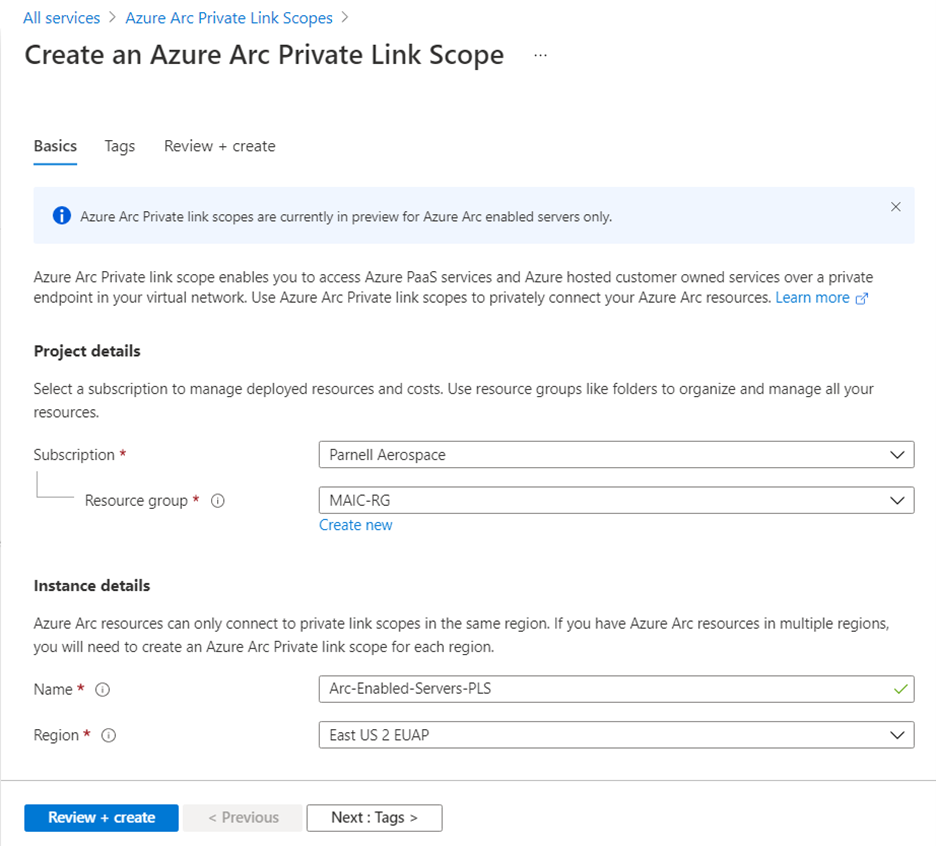
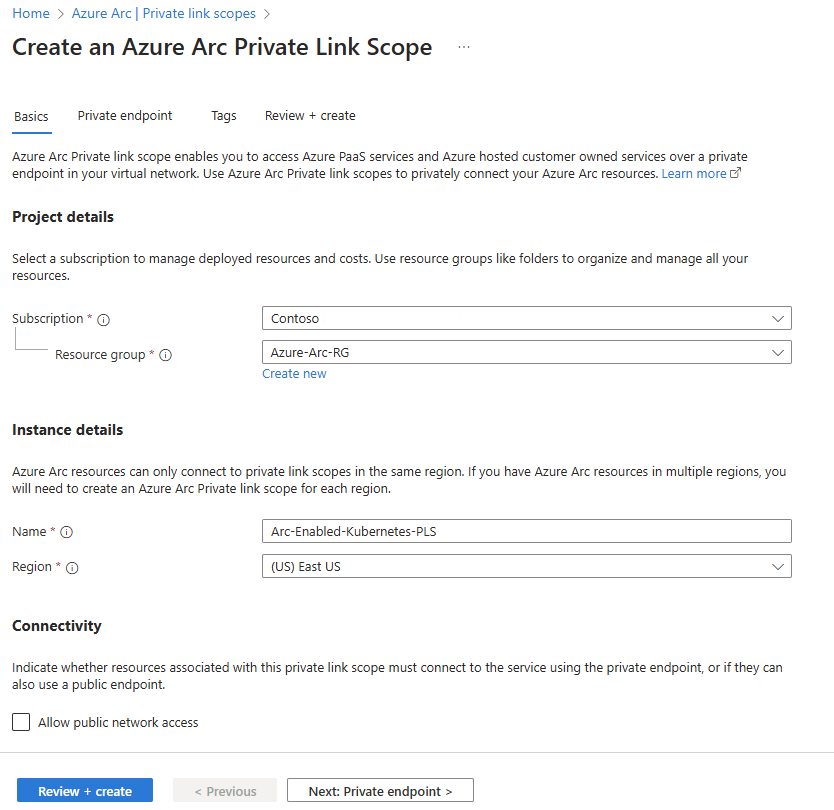
update steps for current functionality

diff --git a/articles/azure-arc/kubernetes/private-link.md b/articles/azure-arc/kubernetes/private-link.md
@@ -1,6 +1,6 @@
 ---
 title: Use private connectivity for Azure Arc-enabled Kubernetes clusters with private link (preview)
-ms.date: 09/21/2022
+ms.date: 10/08/2024
 ms.topic: how-to
 description: With Azure Arc, you can use a Private Link Scope model to allow multiple Kubernetes clusters to use a single private endpoint.
 ms.custom: references_regions
@@ -30,7 +30,7 @@ For more information, see [Key benefits of Azure Private Link](/azure/private-li
 
 ## How it works
 
-Azure Arc Private Link Scope connects private endpoints (and the virtual networks they're contained in) to an Azure resource, in this case Azure Arc-enabled Kubernetes clusters. When you enable any one of the Arc-enabled Kubernetes cluster supported extensions, such as Azure Monitor, then connection to other Azure resources may be required for these scenarios. For example, in the case of Azure Monitor, the logs collected from the cluster are sent to Log Analytics workspace.
+Azure Arc Private Link Scope connects private endpoints (and the virtual networks they're contained in) to an Azure resource, in this case Azure Arc-enabled Kubernetes clusters. When you enable an Arc-enabled Kubernetes [cluster extension](extensions-release.md), then connection to other Azure resources may be required for these scenarios. For example, in the case of Azure Monitor, the logs collected from the cluster are sent to Log Analytics workspace.
 
 Connectivity to the other Azure resources from an Arc-enabled Kubernetes cluster listed earlier requires configuring Private Link for each service. For an example, see [Private Link for Azure Monitor](/azure/azure-monitor/logs/private-link-security).
 
@@ -38,37 +38,38 @@ Connectivity to the other Azure resources from an Arc-enabled Kubernetes cluster
 
 Consider these current limitations when planning your Private Link setup.
 
-* You can associate at most one Azure Arc Private Link Scope with a virtual network.
+* You can associate only one Azure Arc Private Link Scope with a virtual network.
 * An Azure Arc-enabled Kubernetes cluster can only connect to one Azure Arc Private Link Scope.
-* All on-premises Kubernetes clusters need to use the same private endpoint by resolving the correct private endpoint information (FQDN record name and private IP address) using the same DNS forwarder. For more information, see [Azure Private Endpoint DNS configuration](/azure/private-link/private-endpoint-dns). The Azure Arc-enabled Kubernetes cluster, Azure Arc Private Link Scope, and virtual network must be in the same Azure region. The Private Endpoint and the virtual network must also be in the same Azure region, but this region can be different from that of your Azure Arc Private Link Scope and Arc-enabled Kubernetes cluster.
+* All on-premises Kubernetes clusters need to use the same private endpoint by resolving the correct private endpoint information (FQDN record name and private IP address) using the same DNS forwarder. For more information, see [Azure Private Endpoint private DNS zone values](/azure/private-link/private-endpoint-dns). The Azure Arc-enabled Kubernetes cluster, Azure Arc Private Link Scope, and virtual network must be in the same Azure region. The Private Endpoint and the virtual network must also be in the same Azure region, but this region can be different from that of your Azure Arc Private Link Scope and Arc-enabled Kubernetes cluster.
 * Traffic to Microsoft Entra ID, Azure Resource Manager and Microsoft Container Registry service tags must be allowed through your on-premises network firewall during the preview.
-* Other Azure services that you will use, for example Azure Monitor, requires their own private endpoints in your virtual network.
+* Other Azure services that you use, such as Azure Monitor, may require their own private endpoints in your virtual network.
 
     > [!NOTE]
-    > The [Cluster Connect](conceptual-cluster-connect.md) (and hence the [Custom location](custom-locations.md)) feature is not supported on Azure Arc-enabled Kubernetes clusters with private connectivity enabled. This is planned and will be added later. Network connectivity using private links for Azure Arc services like Azure Arc-enabled data services and Azure Arc-enabled App services that use these features are also not supported yet. Refer to the section below for a list of [cluster extensions or Azure Arc services that support network connectivity through private links](#cluster-extensions-that-support-network-connectivity-through-private-links).
+    > The [Cluster Connect](conceptual-cluster-connect.md) (and hence the [Custom location](custom-locations.md)) feature is currently not supported on Azure Arc-enabled Kubernetes clusters with private connectivity enabled. Network connectivity using private links for Azure Arc services such as Azure Arc-enabled data services, and Azure Arc-enabled App services that use these features, are also currently not supported.
 
 ## Cluster extensions that support network connectivity through private links
 
-On Azure Arc-enabled Kubernetes clusters configured with private links, the following extensions support end-to-end connectivity through private links. Refer to the guidance linked to each cluster extension for additional configuration steps and details on support for private links.
+On Azure Arc-enabled Kubernetes clusters configured with private links, these extensions support end-to-end connectivity through private links:
 
-* [Azure GitOps](conceptual-gitops-flux2.md)
+* [Azure GitOps](conceptual-gitops-flux2.md#gitops-with-private-link)
 * [Azure Monitor](/azure/azure-monitor/logs/private-link-security)
 
 ## Planning your Private Link setup
 
-To connect your Kubernetes cluster to Azure Arc over a private link, you need to configure your network to accomplish the following:
+To connect your Kubernetes cluster to Azure Arc over a private link, configure your network as follows:
 
 1. Establish a connection between your on-premises network and an Azure virtual network using a [site-to-site VPN](/azure/vpn-gateway/tutorial-site-to-site-portal) or [ExpressRoute](/azure/expressroute/expressroute-howto-linkvnet-arm) circuit.
-1. Deploy an Azure Arc Private Link Scope, which controls which Kubernetes clusters can communicate with Azure Arc over private endpoints and associate it with your Azure virtual network using a private endpoint.
+1. Deploy an Azure Arc Private Link Scope, which controls which Kubernetes clusters can communicate with Azure Arc over private endpoints, and associate it with your Azure virtual network using a private endpoint.
 1. Update the DNS configuration on your local network to resolve the private endpoint addresses.
 1. Configure your local firewall to allow access to Microsoft Entra ID, Azure Resource Manager and Microsoft Container Registry.
 1. Associate the Azure Arc-enabled Kubernetes clusters with the Azure Arc Private Link Scope.
 1. Optionally, deploy private endpoints for other Azure services your Azure Arc-enabled Kubernetes cluster is managed by, such as Azure Monitor.
-The rest of this document assumes you have already set up your ExpressRoute circuit or site-to-site VPN connection.
+
+The rest of this article assumes you have already set up your ExpressRoute circuit or site-to-site VPN connection.
 
 ## Network configuration
 
-Azure Arc-enabled Kubernetes integrates with several Azure services to bring cloud management and governance to your hybrid Kubernetes clusters. Most of these services already offer private endpoints, but you need to configure your firewall and routing rules to allow access to Microsoft Entra ID and Azure Resource Manager over the internet until these services offer private endpoints. You also need to allow access to Microsoft Container Registry (and AzureFrontDoor.FirstParty as a precursor for Microsoft Container Registry) to pull images & Helm charts to enable services like Azure Monitor, as well as for initial setup of Azure Arc agents on the Kubernetes clusters.
+Azure Arc-enabled Kubernetes integrates with several Azure services to bring cloud management and governance to your hybrid Kubernetes clusters. Most of these services already offer private endpoints. However, you need to configure your firewall and routing rules to allow access to Microsoft Entra ID and Azure Resource Manager over the internet until those services offer private endpoints. You must also allow access to Microsoft Container Registry (and AzureFrontDoor.FirstParty as a precursor for Microsoft Container Registry) to pull images & Helm charts to enable services like Azure Monitor, as well as for initial setup of Azure Arc agents on Kubernetes clusters.
 
 There are two ways you can achieve this:
 
@@ -86,18 +87,18 @@ There are two ways you can achieve this:
     | Priority                | 150 (must be lower than any rules that block internet access) | 151 (must be lower than any rules that block internet access) | 152 (must be lower than any rules that block internet access) | 153 (must be lower than any rules that block internet access) |
     | Name                    | AllowAADOutboundAccess                                        | AllowAzOutboundAccess                                         | AllowAzureFrontDoorFirstPartyAccess                           | AllowMCROutboundAccess
 
-* Configure the firewall on your local network to allow outbound TCP 443 (HTTPS) access to Microsoft Entra ID, Azure Resource Manager, and Microsoft Container Registry, and inbound & outbound access to AzureFrontDoor.FirstParty using the downloadable service tag files. The JSON file contains all the public IP address ranges used by Microsoft Entra ID, Azure Resource Manager, AzureFrontDoor.FirstParty, and Microsoft Container Registry and is updated monthly to reflect any changes. Microsoft Entra service tag is AzureActiveDirectory, Azure Resource Manager's service tag is AzureResourceManager, Microsoft Container Registry's service tag is MicrosoftContainerRegistry, and Azure Front Door's service tag is AzureFrontDoor.FirstParty. Consult with your network administrator and network firewall vendor to learn how to configure your firewall rules.
+* Alternately, configure the firewall on your local network to allow outbound TCP 443 (HTTPS) access to Microsoft Entra ID, Azure Resource Manager, and Microsoft Container Registry, and inbound and outbound access to AzureFrontDoor.FirstParty using downloadable service tag files. The JSON file contains all the public IP address ranges used by Microsoft Entra ID, Azure Resource Manager, AzureFrontDoor.FirstParty, and Microsoft Container Registry and is updated monthly to reflect any changes. The Microsoft Entra service tag is AzureActiveDirectory, Azure Resource Manager's service tag is AzureResourceManager, Microsoft Container Registry's service tag is MicrosoftContainerRegistry, and Azure Front Door's service tag is AzureFrontDoor.FirstParty. Consult your network administrator and network firewall vendor to learn how to configure your firewall rules.
 
 ## Create an Azure Arc Private Link Scope
 
 1. Sign in to the [Azure portal](https://portal.azure.com).
-1. Go to **Create a resource** in the Azure portal, then search for Azure Arc Private Link Scope. Or you can go directly to the [Azure Arc Private Link Scope page](https://portal.azure.com/#blade/HubsExtension/BrowseResource/resourceType/Microsoft.HybridCompute%2FprivateLinkScopes) in the portal.
+1. Search for Azure Arc Private Link Scope. Or you can go directly to the [**Azure Arc Private Link Scopes** page](https://portal.azure.com/#blade/HubsExtension/BrowseResource/resourceType/Microsoft.HybridCompute%2FprivateLinkScopes) in the Azure portal.
 
 1. Select **Create**.
 1. Select a subscription and resource group. During the preview, your virtual network and Azure Arc-enabled Kubernetes clusters must be in the same subscription as the Azure Arc Private Link Scope.
 1. Give the Azure Arc Private Link Scope a name.
-1. You can optionally require every Arc-enabled Kubernetes cluster associated with this Azure Arc Private Link Scope to send data to the service through the private endpoint. If you select **Enable public network access**, Kubernetes clusters associated with this Azure Arc Private Link Scope can communicate with the service over both private or public networks. You can change this setting after creating the scope as needed.
-1. Select **Review + Create**.
+1. To require every Arc-enabled Kubernetes cluster associated with this Azure Arc Private Link Scope to send data to the service through the private endpoint, select **Allow public network access**. If you do so, Kubernetes clusters associated with this Azure Arc Private Link Scope can communicate with the service over both private or public networks. You can change this setting after creating the scope as needed.
+1. Select **Review + create**.
 
    :::image type="content" source="media/private-link/create-private-link-scope.png" alt-text="Screenshot of the Azure Arc Private Link Scope creation screen in the Azure portal.":::
 
@@ -109,25 +110,27 @@ Once your Azure Arc Private Link Scope is created, you need to connect it with o
 
 The Private Endpoint on your virtual network allows it to reach Azure Arc-enabled Kubernetes cluster endpoints through private IPs from your network's pool, instead of using to the public IPs of these endpoints. That allows you to keep using your Azure Arc-enabled Kubernetes clusters without opening your VNet to unrequested outbound traffic. Traffic from the Private Endpoint to your resources will go through Microsoft Azure, and is not routed to public networks.
 
-1. In your scope resource, select **Private Endpoint connections** in the left-hand resource menu. Select **Add** to start the endpoint create process. You can also approve connections that were started in the Private Link center by selecting them, then selecting **Approve**.
+1. In the Azure portal, navigate to the Azure Arc Private Link Scope resource you just created.
+1. In the resource menu, under **Configure**, select **Private Endpoint connections**.
+1. Select **Add** to start the endpoint create process. You can also approve connections that were started in the Private Link center by selecting them, then selecting **Approve**.
 
     :::image type="content" source="media/private-link/create-private-endpoint.png" alt-text="Screenshot of the Private Endpoint connections screen in the Azure portal.":::
 
-1. Pick the subscription, resource group, and name of the endpoint, and the region you want to use. This must be the same region as your virtual network.
+1. Select the subscription and resource group, and enter a name for the endpoint. Select the same region as your virtual network.
 1. Select **Next: Resource**.
-1. On the **Resource** page, perform the following:
+1. On the **Resource** page, if these values aren't already selected, do the following:
    1. Select the subscription that contains your Azure Arc Private Link Scope resource.
-   1. For **Resource type**, choose Microsoft.HybridCompute/privateLinkScopes.
-   1. From the **Resource** drop-down, choose the Azure Arc Private Link Scope that you created earlier.
-   1. Select **Next: Configuration**.
-1. On the **Configuration** page, perform the following:
-    1. Choose the virtual network and subnet from which you want to connect to Azure Arc-enabled Kubernetes clusters.
-    1. For **Integrate with private DNS zone**, select **Yes**. A new Private DNS Zone will be created. The actual DNS zones may be different from what is shown in the screenshot below.
+   1. For **Resource type**, choose `Microsoft.HybridCompute/privateLinkScopes`.
+   1. For **Resource**, choose the Azure Arc Private Link Scope that you created earlier.
+   1. Select **Next: Virtual Network**.
+1. On the **Virtual Network** page:
+    1. Select the virtual network and subnet from which you want to connect to Azure Arc-enabled Kubernetes clusters.
+    1. Select **Next: DNS**.
+1. On the **DNS** page:
+    1. For **Integrate with private DNS zone**, select **Yes**. A new Private DNS Zone will be created.
 
-        :::image type="content" source="media/private-link/create-private-endpoint-2.png" alt-text="Screenshot of the Configuration step to create a private endpoint in the Azure portal.":::
+        If you prefer to manage DNS records manually, select **No**, then complete setting up your Private Link, including this private endpoint and the Private Scope configuration. Next, [configure your DNS](#manual-dns-server-configuration) according to the instructions in [Azure Private Endpoint private DNS zone values](/azure/private-link/private-endpoint-dns). Make sure not to create empty records as preparation for your Private Link setup. The DNS records you create can override existing settings and impact your connectivity with Arc-enabled Kubernetes clusters.
 
-        > [!NOTE]
-        > If you choose **No** and prefer to manage DNS records manually, first complete setting up your Private Link, including this private endpoint and the Private Scope configuration. Next, configure your DNS according to the instructions in [Azure Private Endpoint DNS configuration](/azure/private-link/private-endpoint-dns). Make sure not to create empty records as preparation for your Private Link setup. The DNS records you create can override existing settings and impact your connectivity with Arc-enabled Kubernetes clusters.
     1. Select **Review + create**.
     1. Let validation pass.
     1. Select **Create**.
@@ -138,7 +141,7 @@ Your on-premises Kubernetes clusters need to be able to resolve the private link
 
 ### DNS configuration using Azure-integrated private DNS zones
 
-If you set up private DNS zones for Azure Arc-enabled Kubernetes clusters when creating the private endpoint, your on-premises Kubernetes clusters must be able to forward DNS queries to the built-in Azure DNS servers to resolve the private endpoint addresses correctly. You need a DNS forwarder in Azure (either a purpose-built VM or an Azure Firewall instance with DNS proxy enabled), after which you can configure your on-premises DNS server to forward queries to Azure to resolve private endpoint IP addresses.
+If you selected **Yes** for **Integrate with private DNS zone** when creating the private endpoint, your on-premises Kubernetes clusters must be able to forward DNS queries to the built-in Azure DNS servers to resolve the private endpoint addresses correctly. You need a DNS forwarder in Azure (either a purpose-built VM or an Azure Firewall instance with DNS proxy enabled), after which you can configure your on-premises DNS server to forward queries to Azure to resolve private endpoint IP addresses.
 
 The private endpoint documentation provides guidance for configuring [on-premises workloads using a DNS forwarder](/azure/private-link/private-endpoint-dns-integration#on-premises-workloads-using-a-dns-forwarder).
 
@@ -149,9 +152,6 @@ If you opted out of using Azure private DNS zones during private endpoint creati
 1. Go to the Azure portal.
 1. Navigate to the private endpoint resource associated with your virtual network and Azure Arc Private Link Scope.
 1. From the left-hand pane, select **DNS configuration** to see a list of the DNS records and corresponding IP addresses you’ll need to set up on your DNS server. The FQDNs and IP addresses will change based on the region you selected for your private endpoint and the available IP addresses in your subnet.
-
-      :::image type="content" source="media/private-link/update-dns-configuration.png" alt-text="Screenshot showing manual DNS server configuration in the Azure portal.":::
-
 1. Follow the guidance from your DNS server vendor to add the necessary DNS zones and A records to match the table in the portal. Ensure that you select a DNS server that is appropriately scoped for your network. Every Kubernetes cluster that uses this DNS server now resolves the private endpoint IP addresses and must be associated with the Azure Arc Private Link Scope, or the connection will be refused.
 
 ## Configure private links
@@ -167,25 +167,20 @@ az connectedk8s connect -g <resource-group-name> -n <connected-cluster-name> -l 
 
 | Parameter name | Description |
 | -------------- | ----------- |
-| --enable-private-link |Property to enable/disable private links feature. Set it to "True" to enable connectivity with private links. |
-| --private-link-scope-resource-id | ID of the private link scope resource created earlier. For example: /subscriptions//resourceGroups//providers/Microsoft.HybridCompute/privateLinkScopes/ |
+| `--enable-private-link` |Enables the private link feature if set to `True`. |
+| `--private-link-scope-resource-id` | ID of the private link scope resource created earlier. For example: `/subscriptions//resourceGroups//providers/Microsoft.HybridCompute/privateLinkScopes/` |
 
 For Azure Arc-enabled Kubernetes clusters that were set up prior to configuring the Azure Arc private link scope, you can configure private links through the Azure portal using the following steps:
 
 1. In the Azure portal, navigate to your Azure Arc Private Link Scope resource.
-1. From the left pane, select **Azure Arc resources** and then **+ Add**.
-1. Select the Kubernetes clusters in the list that you want to associate with the Private Link Scope, and then choose **Select** to save your changes.
-
-    > [!NOTE]
-    > The list only shows Azure Arc-enabled Kubernetes clusters that are within the same subscription and region as your Private Link Scope.
-
-    :::image type="content" source="media/private-link/select-clusters.png" alt-text="Screenshot of the list of Kubernetes clusters for the Azure Arc Private Link Scope." lightbox="media/private-link/select-clusters.png":::
+1. From the resource menu, under **Configure**, select **Azure Arc resources**. Then, select **Add**.
+1. You'll see all of the Arc-enabled Kubernetes clusters in the same subscription and region as your Private Link Scope. Check the box for each Kubernetes cluster that you want to associate with the Private Link Scope. When you're finished, choose **Select** to save your changes.
 
 ## Troubleshooting
 
 If you run into problems, the following suggestions may help:
 
-* Check your on-premises DNS server(s) to verify it is either forwarding to Azure DNS or is configured with appropriate A records in your private link zone. These lookup commands should return private IP addresses in your Azure virtual network. If they resolve public IP addresses, double check your machine or server and network’s DNS configuration.
+* Check your on-premises DNS server to verify that it's either forwarding to Azure DNS, or is configured with appropriate A records in your private link zone. These lookup commands should return private IP addresses in your Azure virtual network. If they resolve public IP addresses, double check your server and network's DNS configuration.
 
   ```console
   nslookup gbl.his.arc.azure.com
@@ -193,7 +188,7 @@ If you run into problems, the following suggestions may help:
   nslookup dp.kubernetesconfiguration.azure.com
   ```
 
-* If you are having trouble onboarding your Kubernetes cluster, confirm that you’ve added the Microsoft Entra ID, Azure Resource Manager, AzureFrontDoor.FirstParty and Microsoft Container Registry service tags to your local network firewall.
+* For trouble onboarding your Kubernetes cluster, confirm that you added the Microsoft Entra ID, Azure Resource Manager, AzureFrontDoor.FirstParty and Microsoft Container Registry service tags to your local network firewall.
 
 ## Next steps
 
